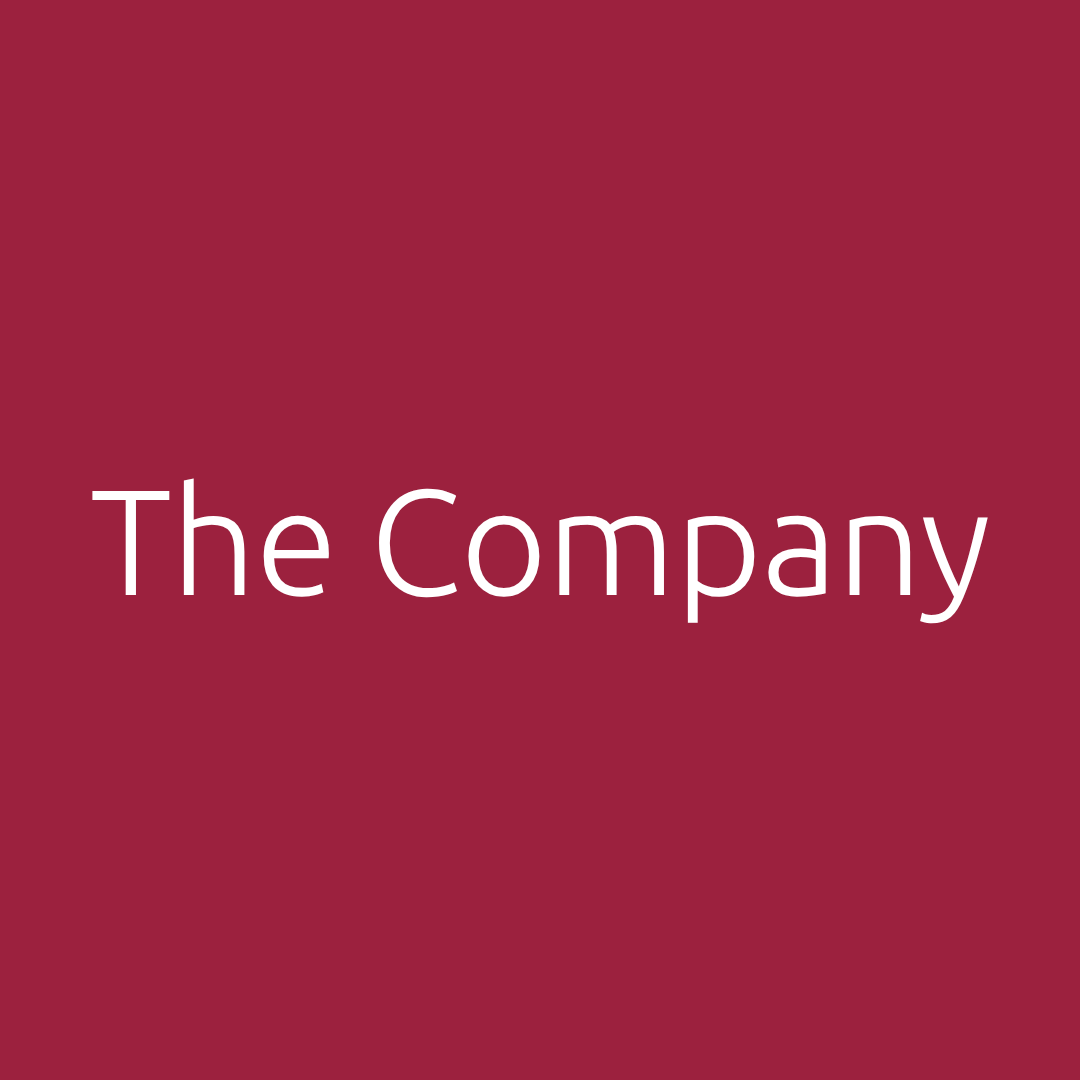
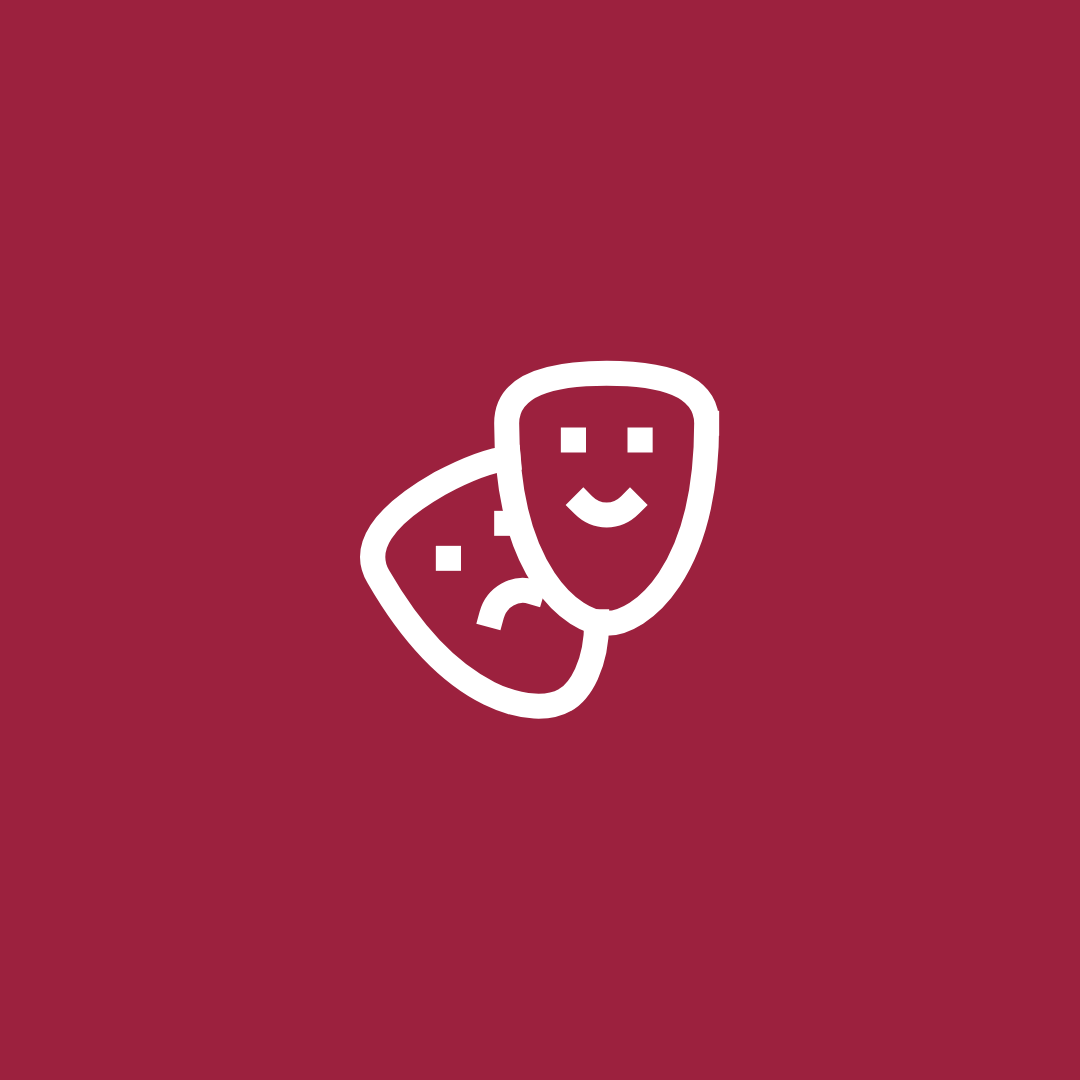
Highlights and camera-shy stickers as symbols alone
Highlight covers are the icon alone in white on crimson, with no name.
Camera-shy stickers are 40 mm, the crossed-out camera alone in white on
ink (new icon: camera-off). The Design System is the only Claude artifact.

Claude-Session: https://claude.ai/code/session_01Ty2uWQ9ss48owdb4GJ5aaF

diff --git a/packages/brand/assets/print/sal-prt-01-printables.html b/packages/brand/assets/print/sal-prt-01-printables.html
@@ -557,7 +557,7 @@ table.grid-f td.lab{background:var(--paper)}
 <div style="border-bottom:.6pt solid var(--ink);height:12mm;margin-top:5mm"></div>
 <div style="display:flex;justify-content:space-between;font-size:7pt;margin-top:1.4mm"><span style="color:var(--ash)">Name</span><span style="font-weight:500;letter-spacing:.12em;text-transform:uppercase">Guest</span></div></div></div><div style="position:absolute;bottom:6mm;left:15mm;font-size:6.5pt;color:var(--ash)">Name badges · 90 × 55 mm · fits standard badge holders</div></section><section class="page "><div style="border:.6pt solid var(--ink);padding:10mm 9mm;margin-top:2mm">
 <img src="../logos/sal-lockup-horizontal.svg" style="height:14mm;width:auto;display:block;"><div style="font-size:34pt;font-weight:300;line-height:1.05;margin-top:12mm;letter-spacing:-.02em">We are taking<br><i style="color:var(--crimson)">photos</i> today.</div>
-<p style="font-size:12pt;margin-top:6mm;max-width:140mm">Prefer not to appear? Take a <b>camera-shy</b> sticker. Our photographers will not publish any photo in which you can be recognized. Ask us to remove any photo at any time: it comes down within 24 hours.</p>
+<p style="font-size:12pt;margin-top:6mm;max-width:140mm">Prefer not to appear? Take a <b>camera-shy</b> sticker, the crossed-out camera. Our photographers will not publish any photo in which you can be recognized. Ask us to remove any photo at any time: it comes down within 24 hours.</p>
 <div style="margin-top:4mm">@auibsal</div></div>
 <p class="small mt2">Photography notice · Policy P5.2 · print at A4 for the door. No identifiable photographs of anyone under 18. The Arabic notice is printed as its own sheet.</p>
-<div style="font-size:7.6pt;font-weight:500;letter-spacing:.12em;text-transform:uppercase;color:var(--ash);margin-top:10mm;margin-bottom:3mm">Camera-shy stickers · 31 mm round · print on sticker paper</div><div style="display:grid;grid-template-columns:repeat(5,31mm);gap:3mm"><div style="width:31mm;height:31mm;border-radius:50%;background:var(--ink);color:#fff;display:flex;align-items:center;justify-content:center;text-align:center"><div style="font-size:10pt;font-weight:300;line-height:1.1">Camera<br>shy</div></div><div style="width:31mm;height:31mm;border-radius:50%;background:var(--ink);color:#fff;display:flex;align-items:center;justify-content:center;text-align:center"><div style="font-size:10pt;font-weight:300;line-height:1.1">Camera<br>shy</div></div><div style="width:31mm;height:31mm;border-radius:50%;background:var(--ink);color:#fff;display:flex;align-items:center;justify-content:center;text-align:center"><div style="font-size:10pt;font-weight:300;line-height:1.1">Camera<br>shy</div></div><div style="width:31mm;height:31mm;border-radius:50%;background:var(--ink);color:#fff;display:flex;align-items:center;justify-content:center;text-align:center"><div style="font-size:10pt;font-weight:300;line-height:1.1">Camera<br>shy</div></div><div style="width:31mm;height:31mm;border-radius:50%;background:var(--ink);color:#fff;display:flex;align-items:center;justify-content:center;text-align:center"><div style="font-size:10pt;font-weight:300;line-height:1.1">Camera<br>shy</div></div><div style="width:31mm;height:31mm;border-radius:50%;background:var(--ink);color:#fff;display:flex;align-items:center;justify-content:center;text-align:center"><div style="font-size:10pt;font-weight:300;line-height:1.1">Camera<br>shy</div></div><div style="width:31mm;height:31mm;border-radius:50%;background:var(--ink);color:#fff;display:flex;align-items:center;justify-content:center;text-align:center"><div style="font-size:10pt;font-weight:300;line-height:1.1">Camera<br>shy</div></div><div style="width:31mm;height:31mm;border-radius:50%;background:var(--ink);color:#fff;display:flex;align-items:center;justify-content:center;text-align:center"><div style="font-size:10pt;font-weight:300;line-height:1.1">Camera<br>shy</div></div><div style="width:31mm;height:31mm;border-radius:50%;background:var(--ink);color:#fff;display:flex;align-items:center;justify-content:center;text-align:center"><div style="font-size:10pt;font-weight:300;line-height:1.1">Camera<br>shy</div></div><div style="width:31mm;height:31mm;border-radius:50%;background:var(--ink);color:#fff;display:flex;align-items:center;justify-content:center;text-align:center"><div style="font-size:10pt;font-weight:300;line-height:1.1">Camera<br>shy</div></div></div><div class="folio"><span class="code">SAL-PRT-01 · Printables</span><span>14 / 14</span></div></section></body></html>
+<div style="font-size:7.6pt;font-weight:500;letter-spacing:.12em;text-transform:uppercase;color:var(--ash);margin-top:10mm;margin-bottom:3mm">Camera-shy stickers · 40 mm round · print on sticker paper</div><div style="display:grid;grid-template-columns:repeat(4,40mm);gap:4mm"><div style="width:40mm;height:40mm;border-radius:50%;background:var(--ink);color:#fff;display:flex;align-items:center;justify-content:center;text-align:center"><svg role="img" aria-label="Camera-shy" width="22mm" height="22mm" viewBox="0 0 24 24" fill="none" stroke="#fff" stroke-width="1.5" stroke-linecap="square" stroke-linejoin="miter"><path d="M2 2l20 20"/><path d="M7 7H2v13h18"/><path d="M9.5 4h5L17 7h5v9.5"/><path d="M14.121 15.121A3 3 0 1 1 9.88 10.88"/></svg></div><div style="width:40mm;height:40mm;border-radius:50%;background:var(--ink);color:#fff;display:flex;align-items:center;justify-content:center;text-align:center"><svg role="img" aria-label="Camera-shy" width="22mm" height="22mm" viewBox="0 0 24 24" fill="none" stroke="#fff" stroke-width="1.5" stroke-linecap="square" stroke-linejoin="miter"><path d="M2 2l20 20"/><path d="M7 7H2v13h18"/><path d="M9.5 4h5L17 7h5v9.5"/><path d="M14.121 15.121A3 3 0 1 1 9.88 10.88"/></svg></div><div style="width:40mm;height:40mm;border-radius:50%;background:var(--ink);color:#fff;display:flex;align-items:center;justify-content:center;text-align:center"><svg role="img" aria-label="Camera-shy" width="22mm" height="22mm" viewBox="0 0 24 24" fill="none" stroke="#fff" stroke-width="1.5" stroke-linecap="square" stroke-linejoin="miter"><path d="M2 2l20 20"/><path d="M7 7H2v13h18"/><path d="M9.5 4h5L17 7h5v9.5"/><path d="M14.121 15.121A3 3 0 1 1 9.88 10.88"/></svg></div><div style="width:40mm;height:40mm;border-radius:50%;background:var(--ink);color:#fff;display:flex;align-items:center;justify-content:center;text-align:center"><svg role="img" aria-label="Camera-shy" width="22mm" height="22mm" viewBox="0 0 24 24" fill="none" stroke="#fff" stroke-width="1.5" stroke-linecap="square" stroke-linejoin="miter"><path d="M2 2l20 20"/><path d="M7 7H2v13h18"/><path d="M9.5 4h5L17 7h5v9.5"/><path d="M14.121 15.121A3 3 0 1 1 9.88 10.88"/></svg></div><div style="width:40mm;height:40mm;border-radius:50%;background:var(--ink);color:#fff;display:flex;align-items:center;justify-content:center;text-align:center"><svg role="img" aria-label="Camera-shy" width="22mm" height="22mm" viewBox="0 0 24 24" fill="none" stroke="#fff" stroke-width="1.5" stroke-linecap="square" stroke-linejoin="miter"><path d="M2 2l20 20"/><path d="M7 7H2v13h18"/><path d="M9.5 4h5L17 7h5v9.5"/><path d="M14.121 15.121A3 3 0 1 1 9.88 10.88"/></svg></div><div style="width:40mm;height:40mm;border-radius:50%;background:var(--ink);color:#fff;display:flex;align-items:center;justify-content:center;text-align:center"><svg role="img" aria-label="Camera-shy" width="22mm" height="22mm" viewBox="0 0 24 24" fill="none" stroke="#fff" stroke-width="1.5" stroke-linecap="square" stroke-linejoin="miter"><path d="M2 2l20 20"/><path d="M7 7H2v13h18"/><path d="M9.5 4h5L17 7h5v9.5"/><path d="M14.121 15.121A3 3 0 1 1 9.88 10.88"/></svg></div><div style="width:40mm;height:40mm;border-radius:50%;background:var(--ink);color:#fff;display:flex;align-items:center;justify-content:center;text-align:center"><svg role="img" aria-label="Camera-shy" width="22mm" height="22mm" viewBox="0 0 24 24" fill="none" stroke="#fff" stroke-width="1.5" stroke-linecap="square" stroke-linejoin="miter"><path d="M2 2l20 20"/><path d="M7 7H2v13h18"/><path d="M9.5 4h5L17 7h5v9.5"/><path d="M14.121 15.121A3 3 0 1 1 9.88 10.88"/></svg></div><div style="width:40mm;height:40mm;border-radius:50%;background:var(--ink);color:#fff;display:flex;align-items:center;justify-content:center;text-align:center"><svg role="img" aria-label="Camera-shy" width="22mm" height="22mm" viewBox="0 0 24 24" fill="none" stroke="#fff" stroke-width="1.5" stroke-linecap="square" stroke-linejoin="miter"><path d="M2 2l20 20"/><path d="M7 7H2v13h18"/><path d="M9.5 4h5L17 7h5v9.5"/><path d="M14.121 15.121A3 3 0 1 1 9.88 10.88"/></svg></div></div><div class="folio"><span class="code">SAL-PRT-01 · Printables</span><span>14 / 14</span></div></section></body></html>

diff --git a/packages/brand/assets/social/highlights/4-the-company.html b/packages/brand/assets/social/highlights/4-the-company.html
@@ -1,24 +1,4 @@
-<html><head><link href="https://fonts.googleapis.com/css2?family=Ubuntu:ital,wght@0,300;0,400;0,500;0,700;1,300;1,400;1,500;1,700&family=Ubuntu+Mono:wght@400;700&display=swap" rel="stylesheet"><meta charset="utf-8"><style>/* ============================================================
-   SAL Design System v3 — built on the AUIB palette
-   Crimson #9C213E · White #FFFFFF · Ink #273236 · Ubuntu
-   v3 adds: the Key monogram, legal-document styles, role cards,
-   org charts, form fields, document control, Ubuntu Mono accents
-   ============================================================ */
-
-
-
-
-
-
-
-
-
-
-
-
-
-
-
-
-
- body{margin:0}</style></head><body><div style="width:1080px;height:1080px;background:#9C213E;display:flex;align-items:center;justify-content:center;font-family:Ubuntu;font-weight:300;color:#fff;font-size:150px;line-height:1.05;text-align:center;letter-spacing:-1px">The Company</div></body></html>
+<!doctype html>
+<html lang="en"><head><meta charset="utf-8"><title>The Company: highlight cover</title>
+<style>html,body{margin:0}body{width:1080px;height:1080px;background:#9c213e;display:flex;align-items:center;justify-content:center}</style>
+</head><body><svg role="img" aria-label="The Company" width="400" height="400" style="color:#fff" xmlns="http://www.w3.org/2000/svg" viewBox="0 0 24 24" fill="none" stroke="currentColor" stroke-width="1.5" stroke-linecap="square" stroke-linejoin="miter" ><path d="M10 11h.01" /><path d="M14 6h.01" /><path d="M18 6h.01" /><path d="M6.5 13.1h.01" /><path d="M22 5c0 9-4 12-6 12s-6-3-6-12c0-2 2-3 6-3s6 1 6 3" /><path d="M17.4 9.9c-.8.8-2 .8-2.8 0" /><path d="M10.1 7.1C9 7.2 7.7 7.7 6 8.6c-3.5 2-4.7 3.9-3.7 5.6 4.5 7.8 9.5 8.4 11.2 7.4.9-.5 1.9-2.1 1.9-4.7" /><path d="M9.1 16.5c.3-1.1 1.4-1.7 2.4-1.4" /></svg></body></html>

diff --git a/packages/brand/assets/components/bundle.css b/packages/brand/assets/components/bundle.css
@@ -119,11 +119,10 @@
 .sal-story--ink .sal-post__headline i, .sal-story--ink .sal-post__meta { color: var(--crimson-100); }
 
 /* ---------- Instagram highlights ----------
-   Covers: plain crimson, the highlight's name in white Ubuntu Light, nothing else (no icons, no Bookmark).
+   Covers: plain crimson with the highlight's icon alone, in white, centered; no name and no Bookmark (Instagram writes the name under the circle).
    Banners: the first story in each highlight, 1080 × 1920 on white, with the wordmark alone at the top. */
 .sal-highlight { --u: calc(100cqw / 1080); container-type: inline-size; }
 .sal-highlight__frame { width: 100%; aspect-ratio: 1; background: var(--crimson); color: var(--white); display: flex; align-items: center; justify-content: center; overflow: hidden; }
-.sal-highlight__name { margin: 0; max-width: calc(760 * var(--u)); text-align: center; font-family: var(--font-sans); font-weight: 300; font-size: calc(170 * var(--u)); line-height: 1.02; letter-spacing: -0.03em; }
 .sal-highlight--round .sal-highlight__frame { border-radius: 50%; }
 
 .sal-banner { --u: calc(100cqw / 1080); container-type: inline-size; }
@@ -144,6 +143,4 @@
 .sal-icon-label { display: inline-flex; align-items: center; gap: 0.45em; }
 .sal-icon-label .sal-icon { vertical-align: 0; }
 .sal-post__meta .sal-icon, .sal-banner__link .sal-icon { margin-inline-end: 0.4em; }
-.sal-highlight__frame { flex-direction: column; gap: calc(36 * var(--u)); }
-.sal-highlight__icon { width: calc(250 * var(--u)); height: calc(250 * var(--u)); stroke: var(--white); }
-.sal-highlight__icon + .sal-highlight__name { font-size: calc(140 * var(--u)); }
+.sal-highlight__icon { width: calc(400 * var(--u)); height: calc(400 * var(--u)); stroke: var(--white); }

diff --git a/packages/brand/assets/social/highlights/3-next-stop.html b/packages/brand/assets/social/highlights/3-next-stop.html
@@ -1,24 +1,4 @@
-<html><head><link href="https://fonts.googleapis.com/css2?family=Ubuntu:ital,wght@0,300;0,400;0,500;0,700;1,300;1,400;1,500;1,700&family=Ubuntu+Mono:wght@400;700&display=swap" rel="stylesheet"><meta charset="utf-8"><style>/* ============================================================
-   SAL Design System v3 — built on the AUIB palette
-   Crimson #9C213E · White #FFFFFF · Ink #273236 · Ubuntu
-   v3 adds: the Key monogram, legal-document styles, role cards,
-   org charts, form fields, document control, Ubuntu Mono accents
-   ============================================================ */
-
-
-
-
-
-
-
-
-
-
-
-
-
-
-
-
-
- body{margin:0}</style></head><body><div style="width:1080px;height:1080px;background:#9C213E;display:flex;align-items:center;justify-content:center;font-family:Ubuntu;font-weight:300;color:#fff;font-size:150px;line-height:1.05;text-align:center;letter-spacing:-1px">Next<br>Stop</div></body></html>
+<!doctype html>
+<html lang="en"><head><meta charset="utf-8"><title>Next Stop: highlight cover</title>
+<style>html,body{margin:0}body{width:1080px;height:1080px;background:#9c213e;display:flex;align-items:center;justify-content:center}</style>
+</head><body><svg role="img" aria-label="Next Stop" width="400" height="400" style="color:#fff" xmlns="http://www.w3.org/2000/svg" viewBox="0 0 24 24" fill="none" stroke="currentColor" stroke-width="1.5" stroke-linecap="square" stroke-linejoin="miter" ><path d="M8 6v6" /><path d="M15 6v6" /><path d="M2 12h19.6" /><path d="M18 18h3s.5-1.7.8-2.8c.1-.4.2-.8.2-1.2 0-.4-.1-.8-.2-1.2l-1.4-5C20.1 6.8 19.1 6 18 6H4a2 2 0 0 0-2 2v10h3" /><circle cx="7" cy="18" r="2" /><path d="M9 18h5" /><circle cx="16" cy="18" r="2" /></svg></body></html>

diff --git a/packages/brand/assets/social/highlights/6-get-involved.html b/packages/brand/assets/social/highlights/6-get-involved.html
@@ -1,24 +1,4 @@
-<html><head><link href="https://fonts.googleapis.com/css2?family=Ubuntu:ital,wght@0,300;0,400;0,500;0,700;1,300;1,400;1,500;1,700&family=Ubuntu+Mono:wght@400;700&display=swap" rel="stylesheet"><meta charset="utf-8"><style>/* ============================================================
-   SAL Design System v3 — built on the AUIB palette
-   Crimson #9C213E · White #FFFFFF · Ink #273236 · Ubuntu
-   v3 adds: the Key monogram, legal-document styles, role cards,
-   org charts, form fields, document control, Ubuntu Mono accents
-   ============================================================ */
-
-
-
-
-
-
-
-
-
-
-
-
-
-
-
-
-
- body{margin:0}</style></head><body><div style="width:1080px;height:1080px;background:#9C213E;display:flex;align-items:center;justify-content:center;font-family:Ubuntu;font-weight:300;color:#fff;font-size:150px;line-height:1.05;text-align:center;letter-spacing:-1px">Get<br>involved</div></body></html>
+<!doctype html>
+<html lang="en"><head><meta charset="utf-8"><title>Get involved: highlight cover</title>
+<style>html,body{margin:0}body{width:1080px;height:1080px;background:#9c213e;display:flex;align-items:center;justify-content:center}</style>
+</head><body><svg role="img" aria-label="Get involved" width="400" height="400" style="color:#fff" xmlns="http://www.w3.org/2000/svg" viewBox="0 0 24 24" fill="none" stroke="currentColor" stroke-width="1.5" stroke-linecap="square" stroke-linejoin="miter" ><path d="M11 12h2a2 2 0 1 0 0-4h-3c-.6 0-1.1.2-1.4.6L3 14" /><path d="m7 18 1.6-1.4c.3-.4.8-.6 1.4-.6h4c1.1 0 2.1-.4 2.8-1.2l4.6-4.4a2 2 0 0 0-2.75-2.91l-4.2 3.9" /><path d="m2 13 6 6" /></svg></body></html>

diff --git a/packages/brand/assets/social/highlights/2-qirtas.html b/packages/brand/assets/social/highlights/2-qirtas.html
@@ -1,24 +1,4 @@
-<html><head><link href="https://fonts.googleapis.com/css2?family=Ubuntu:ital,wght@0,300;0,400;0,500;0,700;1,300;1,400;1,500;1,700&family=Ubuntu+Mono:wght@400;700&display=swap" rel="stylesheet"><meta charset="utf-8"><style>/* ============================================================
-   SAL Design System v3 — built on the AUIB palette
-   Crimson #9C213E · White #FFFFFF · Ink #273236 · Ubuntu
-   v3 adds: the Key monogram, legal-document styles, role cards,
-   org charts, form fields, document control, Ubuntu Mono accents
-   ============================================================ */
-
-
-
-
-
-
-
-
-
-
-
-
-
-
-
-
-
- body{margin:0}</style></head><body><div style="width:1080px;height:1080px;background:#9C213E;display:flex;align-items:center;justify-content:center;font-family:Ubuntu;font-weight:300;color:#fff;font-size:170px;line-height:1.05;text-align:center;letter-spacing:-1px">Qirtas</div></body></html>
+<!doctype html>
+<html lang="en"><head><meta charset="utf-8"><title>Qirtas: highlight cover</title>
+<style>html,body{margin:0}body{width:1080px;height:1080px;background:#9c213e;display:flex;align-items:center;justify-content:center}</style>
+</head><body><svg role="img" aria-label="Qirtas" width="400" height="400" style="color:#fff" xmlns="http://www.w3.org/2000/svg" viewBox="0 0 24 24" fill="none" stroke="currentColor" stroke-width="1.5" stroke-linecap="square" stroke-linejoin="miter" ><path d="M4 22h16a2 2 0 0 0 2-2V4a2 2 0 0 0-2-2H8a2 2 0 0 0-2 2v16a2 2 0 0 1-2 2Zm0 0a2 2 0 0 1-2-2v-9c0-1.1.9-2 2-2h2" /><path d="M18 14h-8" /><path d="M15 18h-5" /><path d="M10 6h8v4h-8V6Z" /></svg></body></html>

diff --git a/packages/brand/assets/social/highlights/5-join.html b/packages/brand/assets/social/highlights/5-join.html
@@ -1,24 +1,4 @@
-<html><head><link href="https://fonts.googleapis.com/css2?family=Ubuntu:ital,wght@0,300;0,400;0,500;0,700;1,300;1,400;1,500;1,700&family=Ubuntu+Mono:wght@400;700&display=swap" rel="stylesheet"><meta charset="utf-8"><style>/* ============================================================
-   SAL Design System v3 — built on the AUIB palette
-   Crimson #9C213E · White #FFFFFF · Ink #273236 · Ubuntu
-   v3 adds: the Key monogram, legal-document styles, role cards,
-   org charts, form fields, document control, Ubuntu Mono accents
-   ============================================================ */
-
-
-
-
-
-
-
-
-
-
-
-
-
-
-
-
-
- body{margin:0}</style></head><body><div style="width:1080px;height:1080px;background:#9C213E;display:flex;align-items:center;justify-content:center;font-family:Ubuntu;font-weight:300;color:#fff;font-size:170px;line-height:1.05;text-align:center;letter-spacing:-1px">Join</div></body></html>
+<!doctype html>
+<html lang="en"><head><meta charset="utf-8"><title>Join: highlight cover</title>
+<style>html,body{margin:0}body{width:1080px;height:1080px;background:#9c213e;display:flex;align-items:center;justify-content:center}</style>
+</head><body><svg role="img" aria-label="Join" width="400" height="400" style="color:#fff" xmlns="http://www.w3.org/2000/svg" viewBox="0 0 24 24" fill="none" stroke="currentColor" stroke-width="1.5" stroke-linecap="square" stroke-linejoin="miter" ><path d="M16 21v-2a4 4 0 0 0-4-4H6a4 4 0 0 0-4 4v2" /><circle cx="9" cy="7" r="4" /><line x1="19" x2="19" y1="8" y2="14" /><line x1="22" x2="16" y1="11" y2="11" /></svg></body></html>

diff --git a/packages/brand/assets/social/highlights/1-whats-on.html b/packages/brand/assets/social/highlights/1-whats-on.html
@@ -1,24 +1,4 @@
-<html><head><link href="https://fonts.googleapis.com/css2?family=Ubuntu:ital,wght@0,300;0,400;0,500;0,700;1,300;1,400;1,500;1,700&family=Ubuntu+Mono:wght@400;700&display=swap" rel="stylesheet"><meta charset="utf-8"><style>/* ============================================================
-   SAL Design System v3 — built on the AUIB palette
-   Crimson #9C213E · White #FFFFFF · Ink #273236 · Ubuntu
-   v3 adds: the Key monogram, legal-document styles, role cards,
-   org charts, form fields, document control, Ubuntu Mono accents
-   ============================================================ */
-
-
-
-
-
-
-
-
-
-
-
-
-
-
-
-
-
- body{margin:0}</style></head><body><div style="width:1080px;height:1080px;background:#9C213E;display:flex;align-items:center;justify-content:center;font-family:Ubuntu;font-weight:300;color:#fff;font-size:150px;line-height:1.05;text-align:center;letter-spacing:-1px">What’s<br>on</div></body></html>
+<!doctype html>
+<html lang="en"><head><meta charset="utf-8"><title>What's on: highlight cover</title>
+<style>html,body{margin:0}body{width:1080px;height:1080px;background:#9c213e;display:flex;align-items:center;justify-content:center}</style>
+</head><body><svg role="img" aria-label="What's on" width="400" height="400" style="color:#fff" xmlns="http://www.w3.org/2000/svg" viewBox="0 0 24 24" fill="none" stroke="currentColor" stroke-width="1.5" stroke-linecap="square" stroke-linejoin="miter" ><path d="M8 2v4" /><path d="M16 2v4" /><rect width="18" height="18" x="3" y="4" /><path d="M3 10h18" /></svg></body></html>

diff --git a/packages/brand/stories/print.stories.tsx b/packages/brand/stories/print.stories.tsx
@@ -1,3 +1,4 @@
+import { Icon } from "@repo/brand/components/sal/icon";
 import type { Meta, StoryObj } from "@storybook/react";
 import type { ReactNode } from "react";
 import QRCode from "react-qr-code";
@@ -179,22 +180,14 @@ export const CameraShyStickers: Story = {
       <div className="absolute start-[15mm] top-[30mm] grid grid-cols-[repeat(4,40mm)] gap-[6mm]">
         {Array.from({ length: 20 }, (_, i) => i).map((i) => (
           <div
-            className="flex size-[40mm] flex-col items-center justify-center gap-[2mm] rounded-full bg-[#273236] text-center text-white"
+            className="flex size-[40mm] items-center justify-center rounded-full bg-[#273236] text-center text-white"
             key={i}
           >
-            {/* biome-ignore lint/performance/noImgElement: the logo file as supplied */}
-            <img
-              alt=""
-              className="block h-[9mm] w-auto"
-              height={34}
-              src="brand/sal-symbol-white.svg"
-              width={20}
+            <Icon
+              className="size-[22mm]"
+              label="Camera-shy"
+              name="camera-off"
             />
-            <span className="font-light text-[11pt] leading-[1.1]">
-              Camera
-              <br />
-              shy
-            </span>
           </div>
         ))}
       </div>

diff --git a/packages/brand/components/sal/icon-data.ts b/packages/brand/components/sal/icon-data.ts
@@ -8,6 +8,7 @@ export const iconData = {
   "book-open": [["path",{"d":"M12 7v14"}],["path",{"d":"M3 18a1 1 0 0 1-1-1V4a1 1 0 0 1 1-1h5a4 4 0 0 1 4 4 4 4 0 0 1 4-4h5a1 1 0 0 1 1 1v13a1 1 0 0 1-1 1h-6a3 3 0 0 0-3 3 3 3 0 0 0-3-3z"}]],
   "bus": [["path",{"d":"M8 6v6"}],["path",{"d":"M15 6v6"}],["path",{"d":"M2 12h19.6"}],["path",{"d":"M18 18h3s.5-1.7.8-2.8c.1-.4.2-.8.2-1.2 0-.4-.1-.8-.2-1.2l-1.4-5C20.1 6.8 19.1 6 18 6H4a2 2 0 0 0-2 2v10h3"}],["circle",{"cx":"7","cy":"18","r":"2"}],["path",{"d":"M9 18h5"}],["circle",{"cx":"16","cy":"18","r":"2"}]],
   "calendar": [["path",{"d":"M8 2v4"}],["path",{"d":"M16 2v4"}],["rect",{"width":"18","height":"18","x":"3","y":"4"}],["path",{"d":"M3 10h18"}]],
+  "camera-off": [["path",{"d":"M2 2l20 20"}],["path",{"d":"M7 7H2v13h18"}],["path",{"d":"M9.5 4h5L17 7h5v9.5"}],["path",{"d":"M14.121 15.121A3 3 0 1 1 9.88 10.88"}]],
   "check": [["path",{"d":"M20 6 9 17l-5-5"}]],
   "chevron-down": [["path",{"d":"m6 9 6 6 6-6"}]],
   "circle-alert": [["circle",{"cx":"12","cy":"12","r":"10"}],["line",{"x1":"12","x2":"12","y1":"8","y2":"12"}],["line",{"x1":"12","x2":"12.01","y1":"16","y2":"16"}]],

diff --git a/packages/brand/icons.test.ts b/packages/brand/icons.test.ts
@@ -8,9 +8,9 @@ describe("the icon set", () => {
     expect(readFileSync(iconDataPath, "utf8")).toBe(await renderIconData());
   });
 
-  test("54 icons, each drawn with at least one shape", () => {
+  test("55 icons, each drawn with at least one shape", () => {
     const names = Object.keys(iconData);
-    expect(names).toHaveLength(54);
+    expect(names).toHaveLength(55);
     for (const name of names) {
       expect(
         iconData[name as keyof typeof iconData].length,

diff --git a/packages/brand/stories/social.stories.tsx b/packages/brand/stories/social.stories.tsx
@@ -258,8 +258,7 @@ export const Highlights: Story = {
       {highlights.map(([name, icon]) => (
         <div className="sal-highlight sal-highlight--round" key={name}>
           <div className="sal-highlight__frame">
-            <Icon className="sal-highlight__icon" name={icon} />
-            <p className="sal-highlight__name">{name}</p>
+            <Icon className="sal-highlight__icon" label={name} name={icon} />
           </div>
         </div>
       ))}
